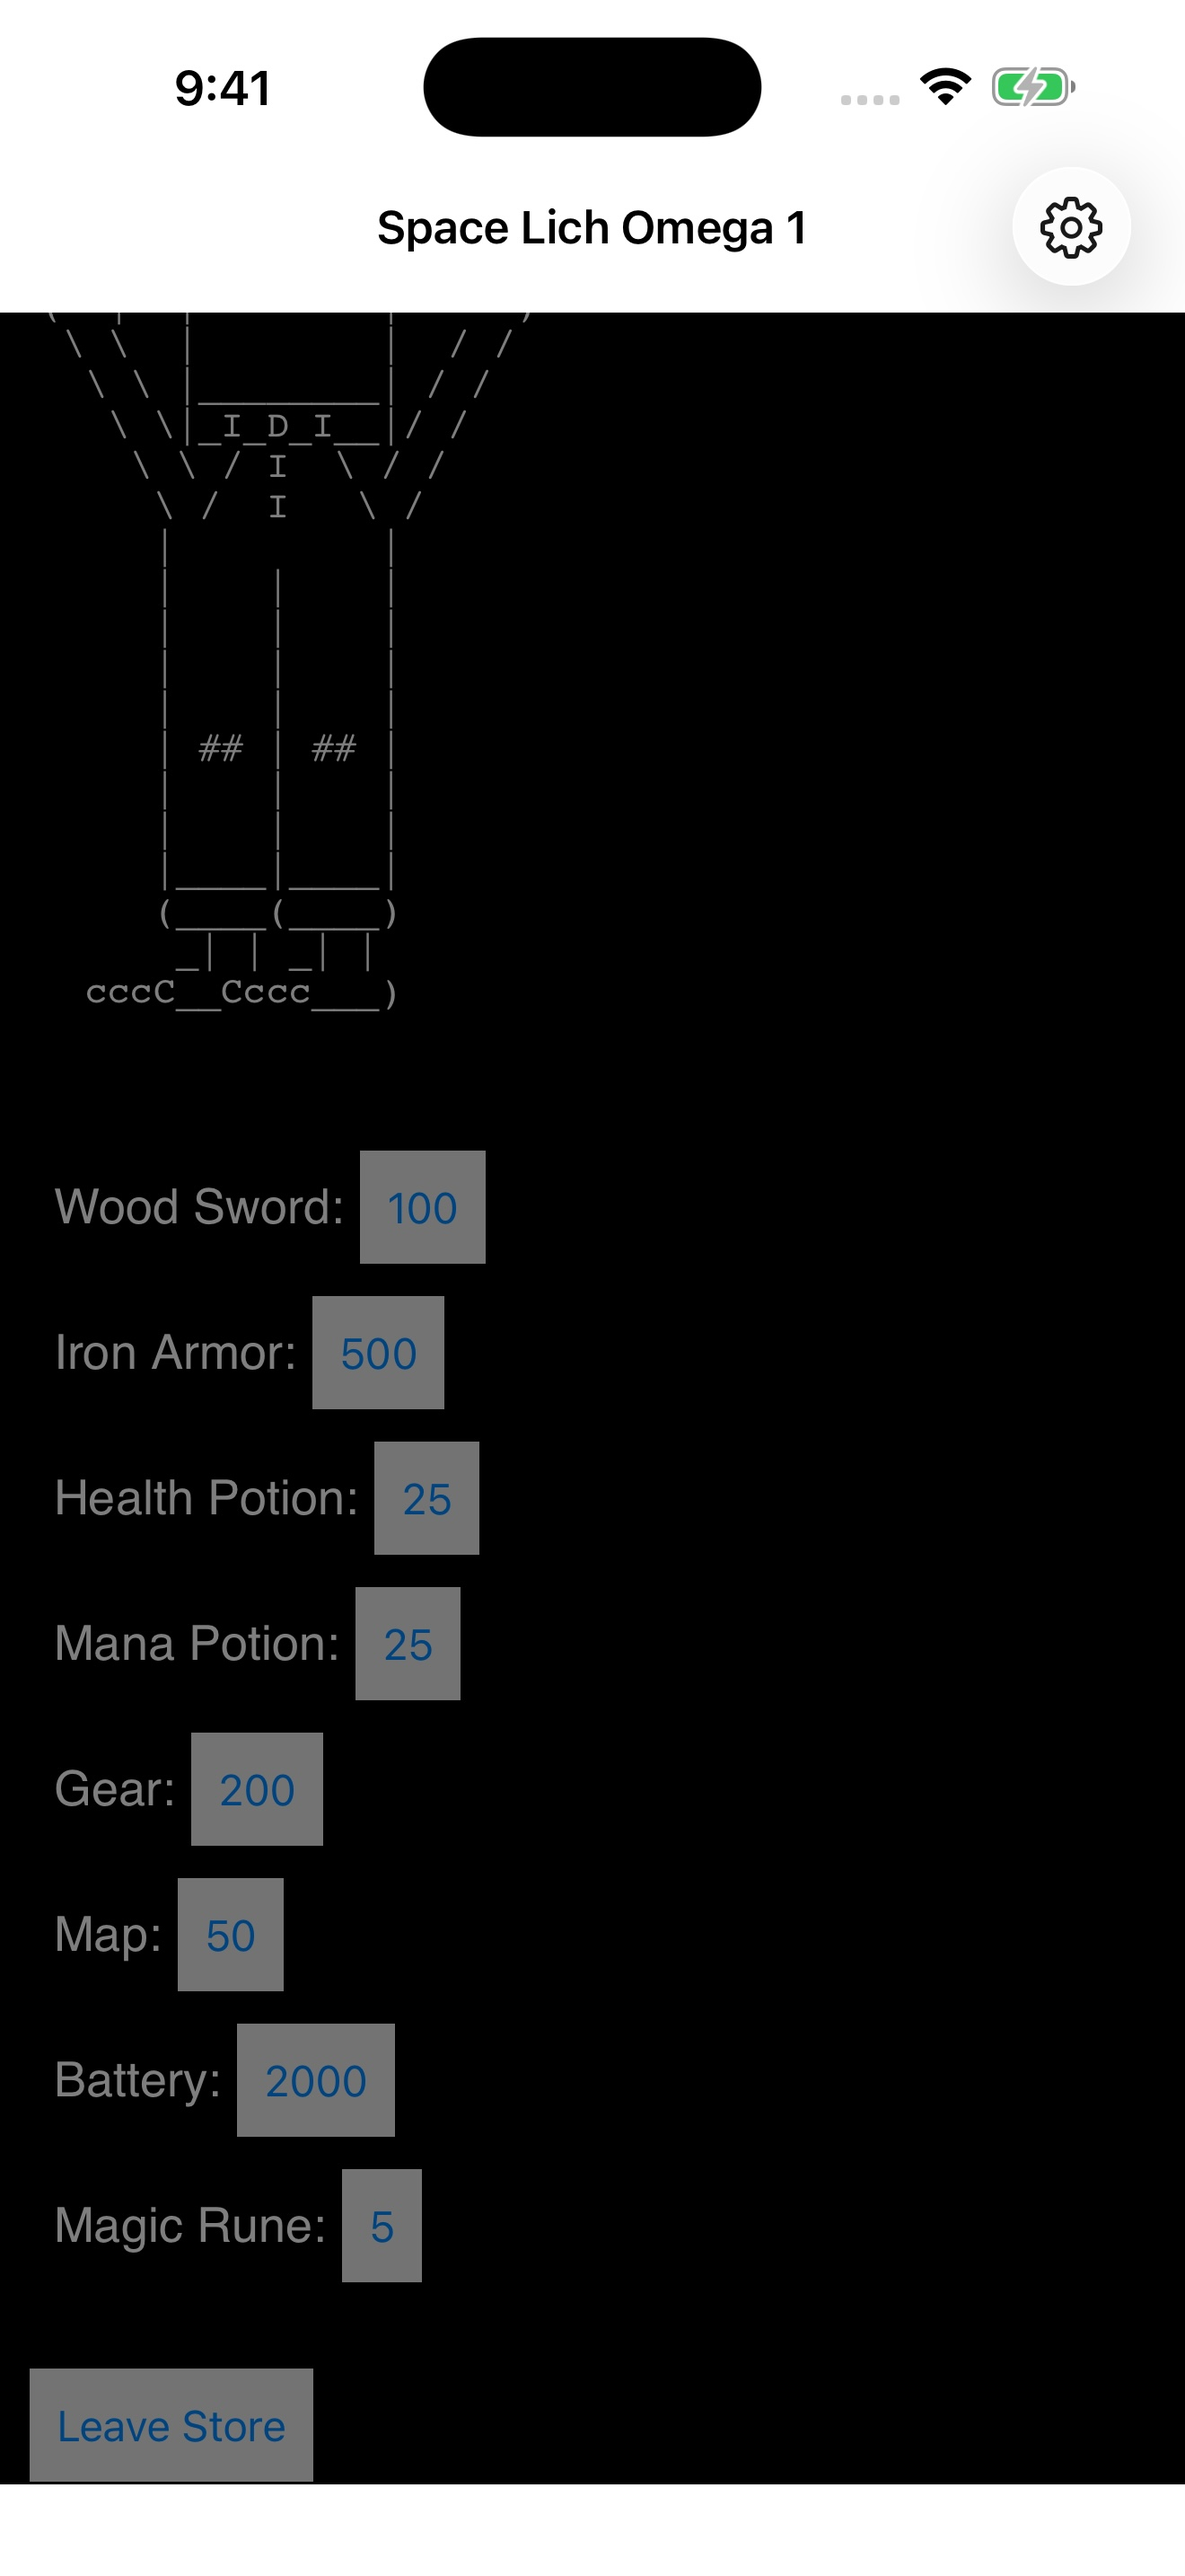
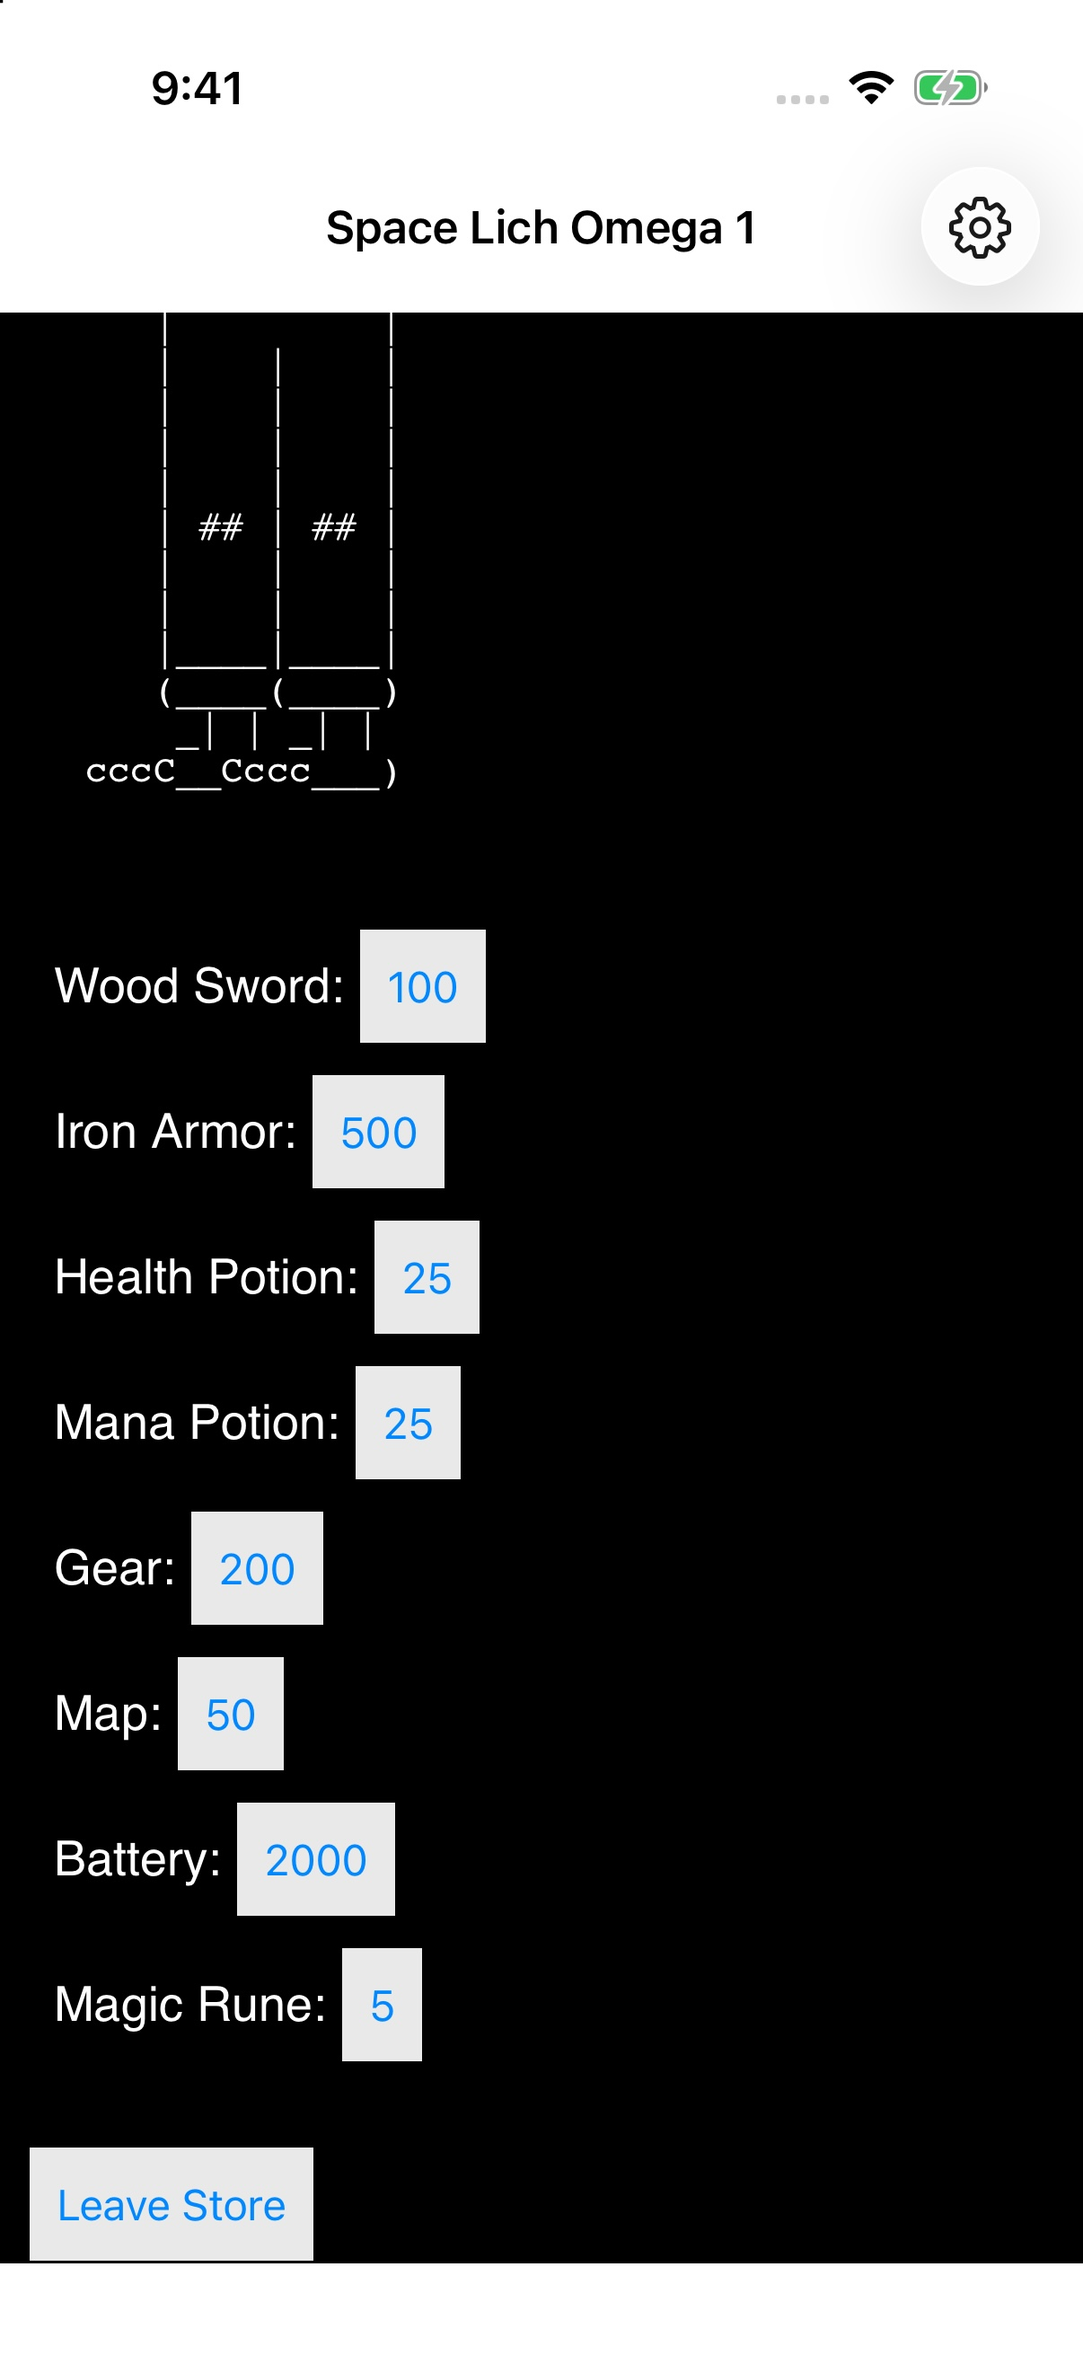
Use final iPhone captures in Space Lich gallery

diff --git a/space-lich-omega1/index.html b/space-lich-omega1/index.html
@@ -1,1 +1,1 @@
-<!doctype html><html lang="en"><head><meta charset="utf-8"><meta name="viewport" content="width=device-width, initial-scale=1"><title>Space Lich Omega 1 — MinimalisticGamers</title><meta name="description" content="Set out into an ASCII-art adventure. Gather resources, upgrade equipment, take on quests, and uncover the first Space Lich Omega game on iPhone."><meta name="theme-color" content="#f5f4ef"><link rel="icon" href="../favicon.svg" type="image/svg+xml"><link rel="stylesheet" href="../styles.css"><link rel="stylesheet" href="../games.css"><link rel="canonical" href="https://minimalisticgamers.github.io/space-lich-omega1/"><meta property="og:type" content="website"><meta property="og:title" content="Space Lich Omega 1"><meta property="og:description" content="Set out into an ASCII-art adventure. Gather resources, upgrade equipment, take on quests, and uncover the first Space Lich Omega game on iPhone."><meta property="og:url" content="https://minimalisticgamers.github.io/space-lich-omega1/"><meta name="twitter:card" content="summary"><meta property="og:image" content="https://minimalisticgamers.github.io/space-lich-omega1/assets/app-icon.png"><meta property="og:image:alt" content="Space Lich Omega 1 app icon"></head><body><a class="skip-link" href="#main">Skip to content</a><header class="site-header shell"><nav aria-label="Main navigation"><a class="brand" href="../" aria-label="MinimalisticGamers home"><svg class="brand-mark" viewBox="0 0 32 32" aria-hidden="true"><path d="M2 28V4h7l7 11 7-11h7v24h-7V15l-7 10-7-10v13Z" fill="currentColor"/></svg><span>Minimalistic<span class="brand-light">Gamers</span></span></a><div class="nav-links"><a href="../#games">Games</a><a href="../support/">Support</a><a href="../privacy/">Privacy</a></div></nav></header><main id="main" style="--game-accent:#b7c9ee"><section class="game-hero shell"><div><p class="eyebrow">004 · iPhone · In preparation</p><h1>Space Lich Omega 1</h1><p class="game-subtitle">Explore. Equip. Face the lich.</p><p class="intro">Set out into an ASCII-art adventure. Gather resources, upgrade equipment, take on quests, and uncover the first Space Lich Omega game on iPhone.</p><a class="button" href="#inside">Explore the game <span aria-hidden="true">↓</span></a><p class="game-release">Public release in preparation.</p></div><div class="game-icon-panel"><div class="art-top"><span>MG / 004</span><span>ASCII ADVENTURE</span></div><img src="./assets/app-icon.png" width="1024" height="1024" alt="Space Lich Omega 1 app icon" fetchpriority="high"><div class="art-bottom"><span>EXPLORE. EQUIP. FACE THE LICH.</span><span>+</span></div></div></section><div class="game-facts shell"><span>ASCII adventure</span><span>Offline play</span><span>Local saves</span><span>No ads or accounts</span></div><section class="game-story shell" id="inside"><div><p class="eyebrow">Space Lich Omega 1</p><h2>Step into<br>the unknown.</h2></div><div><p>Explore an unfolding world of quests, equipment, magic, and encounters. Earn resources, prepare for each challenge, and discover what waits beyond the next location.</p><p>This host runs the original first Space Lich Omega game. The original ASCII artwork, combat, story, and progression remain in place, with a layout and controls adapted for touch.</p></div></section><section class="shell" aria-labelledby="screenshots-title"><div class="section-label"><span id="screenshots-title">A LOOK INSIDE</span><span>IPHONE GAMEPLAY</span></div><p class="game-gallery-hint">Swipe to explore screenshots →</p><div class="game-gallery game-gallery-two" tabindex="0" role="region" aria-label="Game screenshots; scroll horizontally on small screens"><figure><a href="./assets/town.jpeg"><img src="./assets/town.jpeg" width="1320" height="2868" alt="Space Lich Omega 1 on iPhone showing gold, health, navigation, and an ASCII-art church in town." loading="lazy"></a><figcaption><strong>Your starting point.</strong><br>The original town and church in the light display option.</figcaption></figure><figure><a href="./assets/shop.jpeg"><img src="./assets/shop.jpeg" width="1320" height="2868" alt="Space Lich Omega 1 shop on iPhone with prices for a wood sword, iron armor, potions, a map, and other supplies." loading="lazy"></a><figcaption><strong>Prepare for the next step.</strong><br>Compare equipment, supplies, and upgrades in the store.</figcaption></figure></div><p class="game-gallery-note">Real screenshots from the iPhone app.</p></section><section class="game-details shell"><div><p class="eyebrow">Made for a little focus.</p><h2>Your game.<br>Your device.</h2><p class="intro">Play offline, keep progress locally, and export a backup when you want a separate copy.</p></div><div class="game-questions"><details open><summary>Can I play offline?</summary><p>Yes. The original game and its required resources are bundled with the app. Links you choose open in your browser and require internet access.</p></details><details><summary>How are saves handled?</summary><p>The original game saves outside a quest while shield and berserk are inactive. A backup made during a quest contains the last eligible checkpoint. Return to a safe checkpoint before exporting.</p><p>Open Settings → Export backup to create a native JSON backup. Use Import backup to restore one. Import asks before replacing progress. Keep exported backups separately from the app.</p></details><details><summary>Does it run while I’m away?</summary><p>iOS may suspend the game in the background. The app does not add closed-app catch-up production.</p></details><details><summary>When can I download it?</summary><p>The iOS app is in preparation. A verified App Store link will appear here when it is publicly available. There is no public beta sign-up on this page.</p></details></div></section><section class="game-help shell"><div><p class="eyebrow">Player information</p><h2>A little help,<br>when you need it.</h2><p>Find save instructions, contact support, and read the app’s privacy policy.</p></div><div class="game-help-links"><a class="button" href="./support/">Player support <span aria-hidden="true">↗</span></a><a href="./privacy/">Privacy policy</a></div></section><section class="game-credits shell" aria-label="Original game credits"><p>Original Space Lich Omega by Nora Forcier / Zertuk. Original About and ASCII Art Credit panels are retained in the app. <a href="https://slo.zertukis.com/">Visit the original game or source</a>.</p><p>This independent local host is in preparation. It is not an official release. Public distribution authorization for the game and credited artwork is still being resolved.</p></section></main><footer class="site-footer shell"><span>© 2026 MinimalisticGamers</span><span class="footer-note">Small by design.</span><div><a href="../">All games</a><a href="../support/">Support</a><a href="../privacy/">Privacy policy</a></div></footer></body></html>
+<!doctype html><html lang="en"><head><meta charset="utf-8"><meta name="viewport" content="width=device-width, initial-scale=1"><title>Space Lich Omega 1 — MinimalisticGamers</title><meta name="description" content="Set out into an ASCII-art adventure. Gather resources, upgrade equipment, take on quests, and uncover the first Space Lich Omega game on iPhone."><meta name="theme-color" content="#f5f4ef"><link rel="icon" href="../favicon.svg" type="image/svg+xml"><link rel="stylesheet" href="../styles.css"><link rel="stylesheet" href="../games.css"><link rel="canonical" href="https://minimalisticgamers.github.io/space-lich-omega1/"><meta property="og:type" content="website"><meta property="og:title" content="Space Lich Omega 1"><meta property="og:description" content="Set out into an ASCII-art adventure. Gather resources, upgrade equipment, take on quests, and uncover the first Space Lich Omega game on iPhone."><meta property="og:url" content="https://minimalisticgamers.github.io/space-lich-omega1/"><meta name="twitter:card" content="summary"><meta property="og:image" content="https://minimalisticgamers.github.io/space-lich-omega1/assets/app-icon.png"><meta property="og:image:alt" content="Space Lich Omega 1 app icon"></head><body><a class="skip-link" href="#main">Skip to content</a><header class="site-header shell"><nav aria-label="Main navigation"><a class="brand" href="../" aria-label="MinimalisticGamers home"><svg class="brand-mark" viewBox="0 0 32 32" aria-hidden="true"><path d="M2 28V4h7l7 11 7-11h7v24h-7V15l-7 10-7-10v13Z" fill="currentColor"/></svg><span>Minimalistic<span class="brand-light">Gamers</span></span></a><div class="nav-links"><a href="../#games">Games</a><a href="../support/">Support</a><a href="../privacy/">Privacy</a></div></nav></header><main id="main" style="--game-accent:#b7c9ee"><section class="game-hero shell"><div><p class="eyebrow">004 · iPhone · In preparation</p><h1>Space Lich Omega 1</h1><p class="game-subtitle">Explore. Equip. Face the lich.</p><p class="intro">Set out into an ASCII-art adventure. Gather resources, upgrade equipment, take on quests, and uncover the first Space Lich Omega game on iPhone.</p><a class="button" href="#inside">Explore the game <span aria-hidden="true">↓</span></a><p class="game-release">Public release in preparation.</p></div><div class="game-icon-panel"><div class="art-top"><span>MG / 004</span><span>ASCII ADVENTURE</span></div><img src="./assets/app-icon.png" width="1024" height="1024" alt="Space Lich Omega 1 app icon" fetchpriority="high"><div class="art-bottom"><span>EXPLORE. EQUIP. FACE THE LICH.</span><span>+</span></div></div></section><div class="game-facts shell"><span>ASCII adventure</span><span>Offline play</span><span>Local saves</span><span>No ads or accounts</span></div><section class="game-story shell" id="inside"><div><p class="eyebrow">Space Lich Omega 1</p><h2>Step into<br>the unknown.</h2></div><div><p>Explore an unfolding world of quests, equipment, magic, and encounters. Earn resources, prepare for each challenge, and discover what waits beyond the next location.</p><p>This host runs the original first Space Lich Omega game. The original ASCII artwork, combat, story, and progression remain in place, with a layout and controls adapted for touch.</p></div></section><section class="shell" aria-labelledby="screenshots-title"><div class="section-label"><span id="screenshots-title">A LOOK INSIDE</span><span>IPHONE GAMEPLAY</span></div><p class="game-gallery-hint">Swipe to explore screenshots →</p><div class="game-gallery game-gallery-two" tabindex="0" role="region" aria-label="Game screenshots; scroll horizontally on small screens"><figure><a href="./assets/town.jpeg"><img src="./assets/town.jpeg" width="1206" height="2622" alt="Space Lich Omega 1 on iPhone showing gold, health, navigation, and an ASCII-art church in town." loading="lazy"></a><figcaption><strong>Your starting point.</strong><br>The original town and church in the light display option.</figcaption></figure><figure><a href="./assets/shop.jpeg"><img src="./assets/shop.jpeg" width="1206" height="2622" alt="Space Lich Omega 1 shop on iPhone with prices for a wood sword, iron armor, potions, a map, and other supplies." loading="lazy"></a><figcaption><strong>Prepare for the next step.</strong><br>Compare equipment, supplies, and upgrades in the store.</figcaption></figure></div><p class="game-gallery-note">Real screenshots from the iPhone app.</p></section><section class="game-details shell"><div><p class="eyebrow">Made for a little focus.</p><h2>Your game.<br>Your device.</h2><p class="intro">Play offline, keep progress locally, and export a backup when you want a separate copy.</p></div><div class="game-questions"><details open><summary>Can I play offline?</summary><p>Yes. The original game and its required resources are bundled with the app. Links you choose open in your browser and require internet access.</p></details><details><summary>How are saves handled?</summary><p>The original game saves outside a quest while shield and berserk are inactive. A backup made during a quest contains the last eligible checkpoint. Return to a safe checkpoint before exporting.</p><p>Open Settings → Export backup to create a native JSON backup. Use Import backup to restore one. Import asks before replacing progress. Keep exported backups separately from the app.</p></details><details><summary>Does it run while I’m away?</summary><p>iOS may suspend the game in the background. The app does not add closed-app catch-up production.</p></details><details><summary>When can I download it?</summary><p>The iOS app is in preparation. A verified App Store link will appear here when it is publicly available. There is no public beta sign-up on this page.</p></details></div></section><section class="game-help shell"><div><p class="eyebrow">Player information</p><h2>A little help,<br>when you need it.</h2><p>Find save instructions, contact support, and read the app’s privacy policy.</p></div><div class="game-help-links"><a class="button" href="./support/">Player support <span aria-hidden="true">↗</span></a><a href="./privacy/">Privacy policy</a></div></section><section class="game-credits shell" aria-label="Original game credits"><p>Original Space Lich Omega by Nora Forcier / Zertuk. Original About and ASCII Art Credit panels are retained in the app. <a href="https://slo.zertukis.com/">Visit the original game or source</a>.</p><p>This independent local host is in preparation. It is not an official release. Public distribution authorization for the game and credited artwork is still being resolved.</p></section></main><footer class="site-footer shell"><span>© 2026 MinimalisticGamers</span><span class="footer-note">Small by design.</span><div><a href="../">All games</a><a href="../support/">Support</a><a href="../privacy/">Privacy policy</a></div></footer></body></html>
